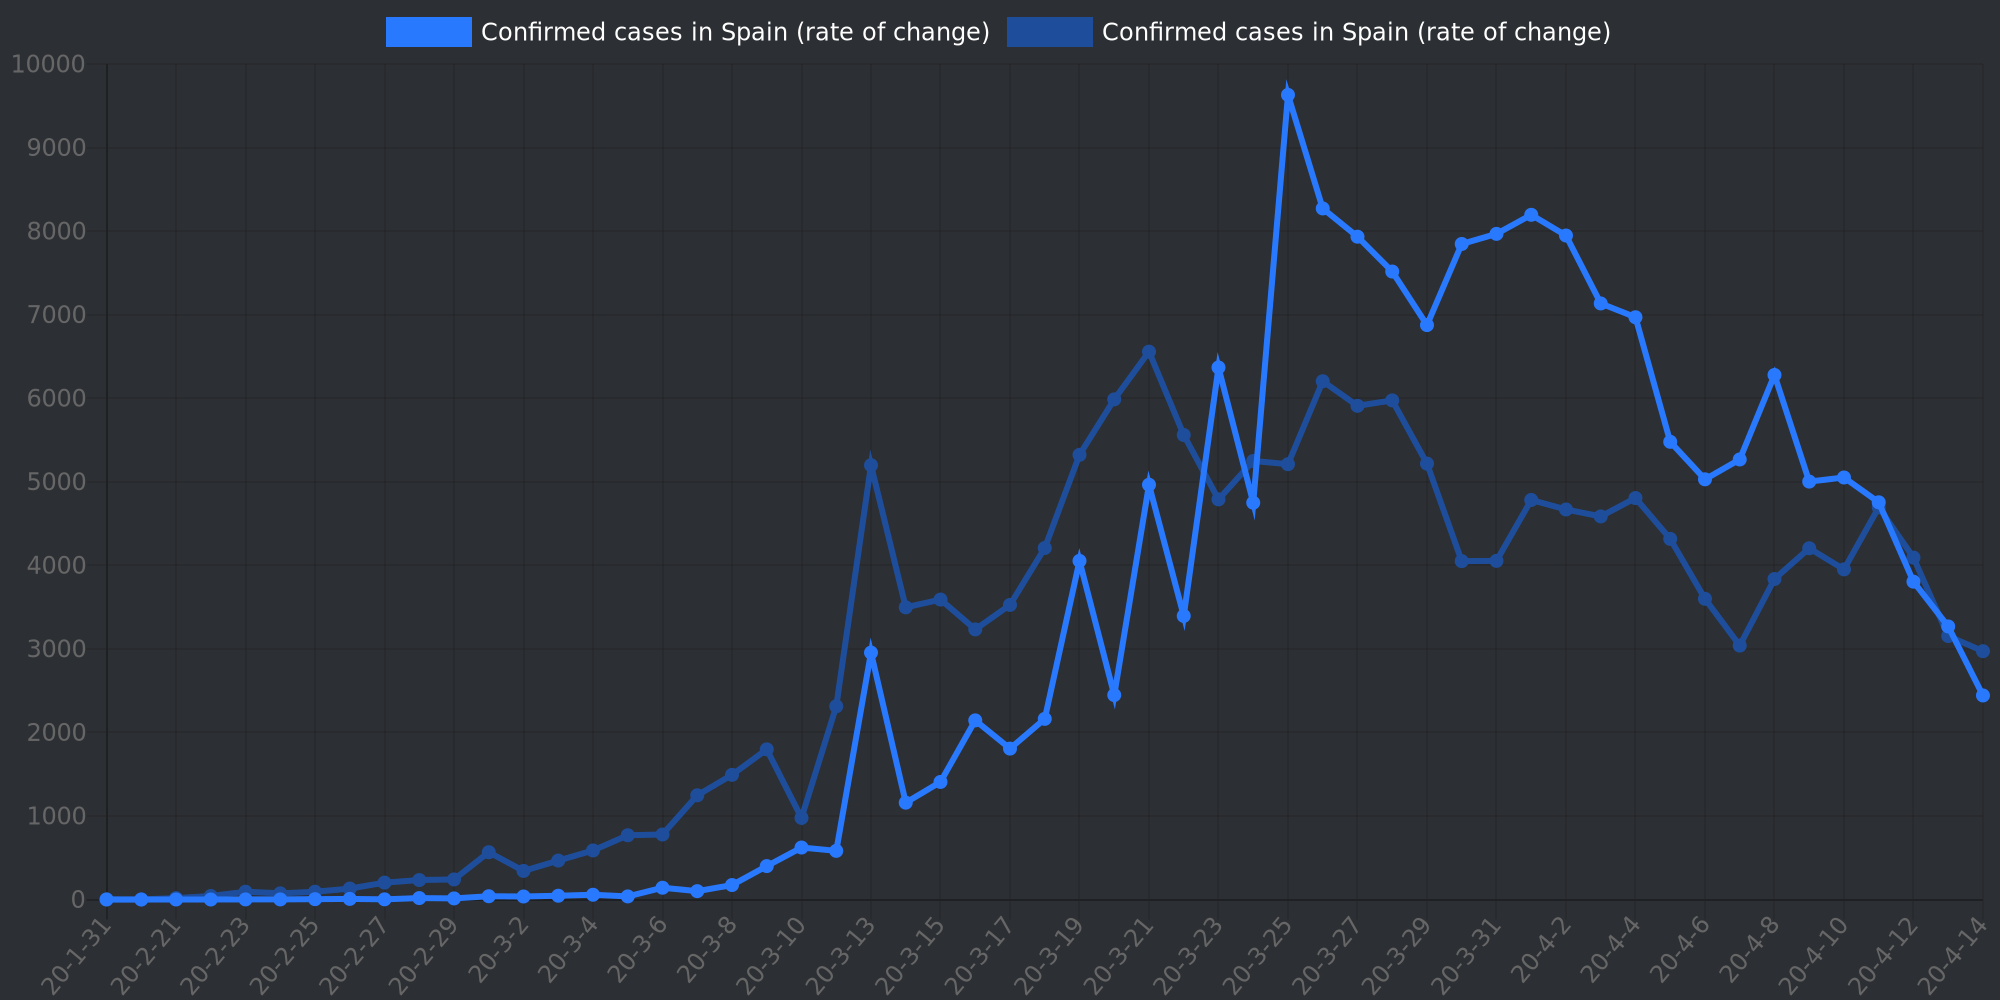
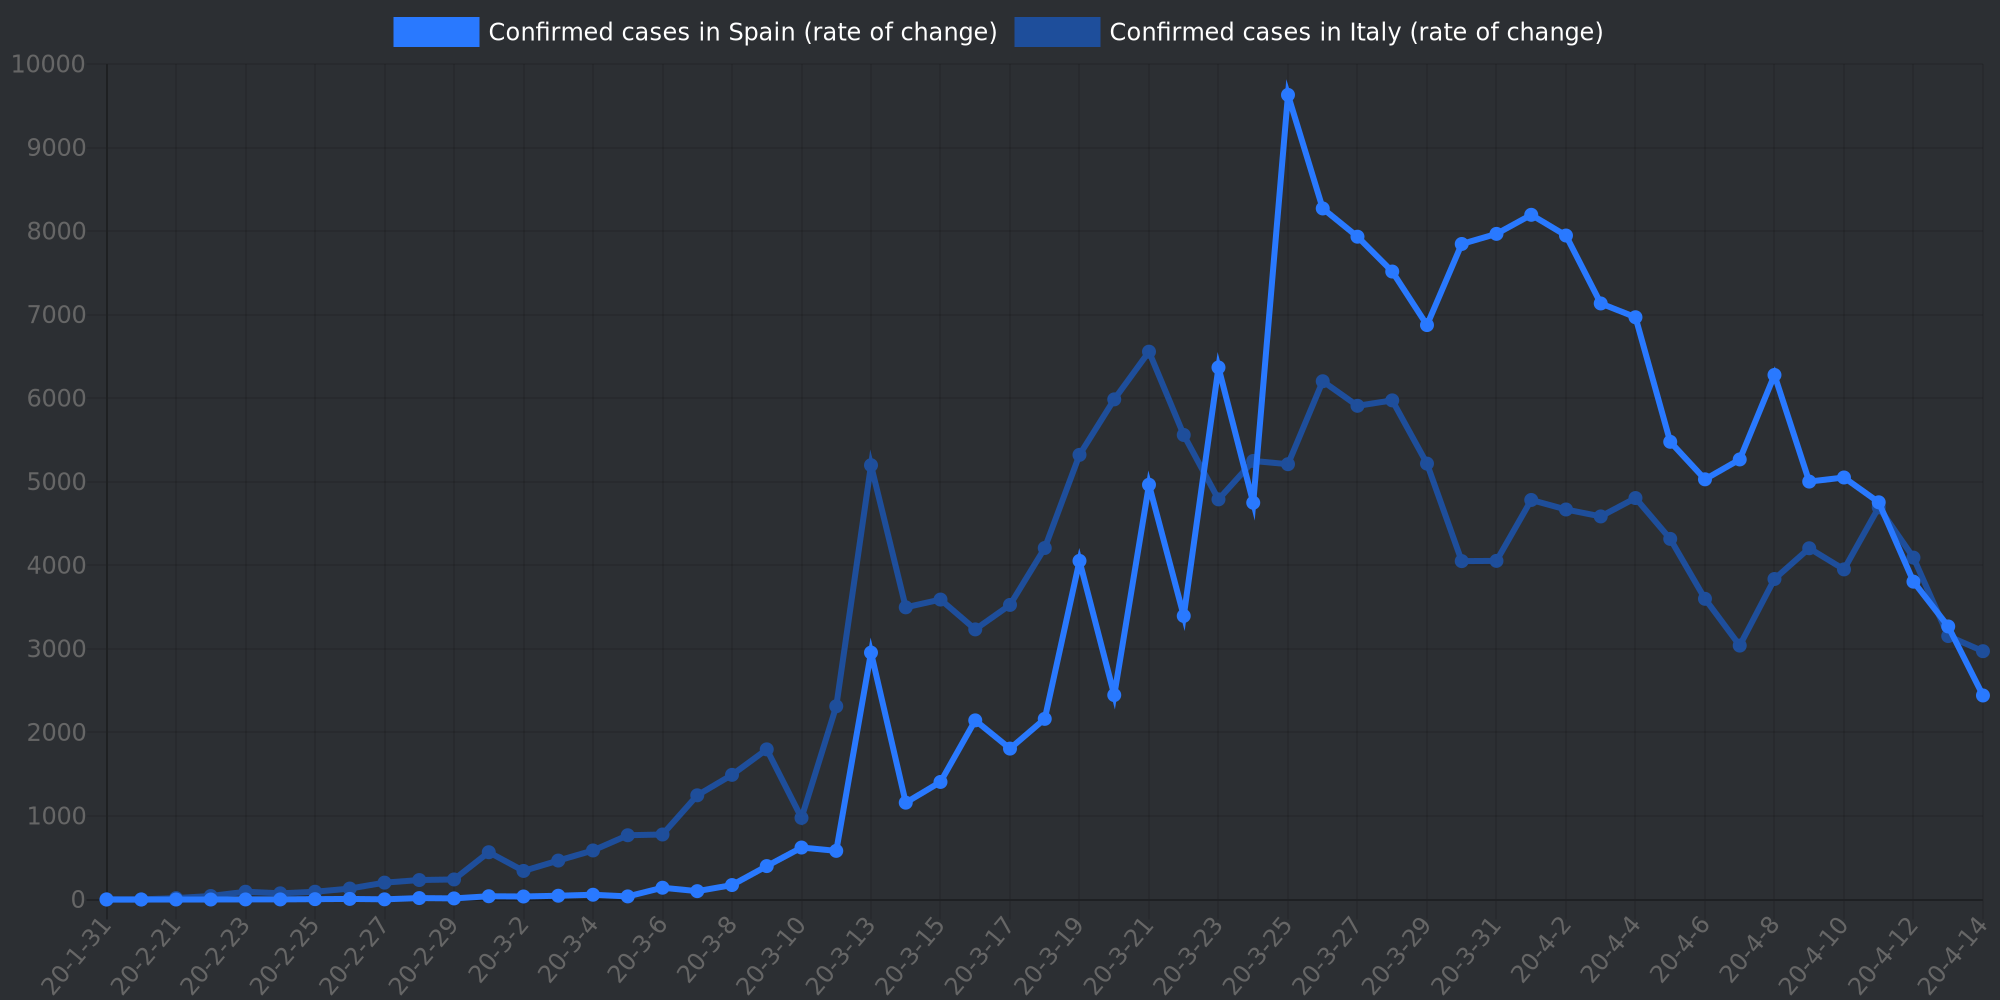
Fixed a small bug with the country names

Changed region(s): [[0.527, 0.0, 0.806, 0.062], [0.217, 0.0, 0.496, 0.062]]

diff --git a/commands/cv.js b/commands/cv.js
@@ -189,7 +189,7 @@ module.exports = {
                     borderColor: utility.getGraphColor(flag),
                 };
                 dataset2 = {
-                    label: (change) ? `${utility.getGraphLabel(country[0], flag)} (rate of change)` : utility.getGraphLabel(country[0], flag),
+                    label: (change) ? `${utility.getGraphLabel(country[1], flag)} (rate of change)` : utility.getGraphLabel(country[1], flag),
                     data: values[1],
                     fill: false,
                     backgroundColor: utility.getGraphColor2(flag),

diff --git a/cv_cmd.js b/cv_cmd.js
@@ -170,7 +170,7 @@ function cv(args) {
                 borderColor: utility.getGraphColor(flag),
             };
             dataset2 = {
-                label: (change) ? `${utility.getGraphLabel(country[0], flag)} (rate of change)` : utility.getGraphLabel(country[0], flag),
+                label: (change) ? `${utility.getGraphLabel(country[1], flag)} (rate of change)` : utility.getGraphLabel(country[1], flag),
                 data: values[1],
                 fill: false,
                 backgroundColor: utility.getGraphColor2(flag),
